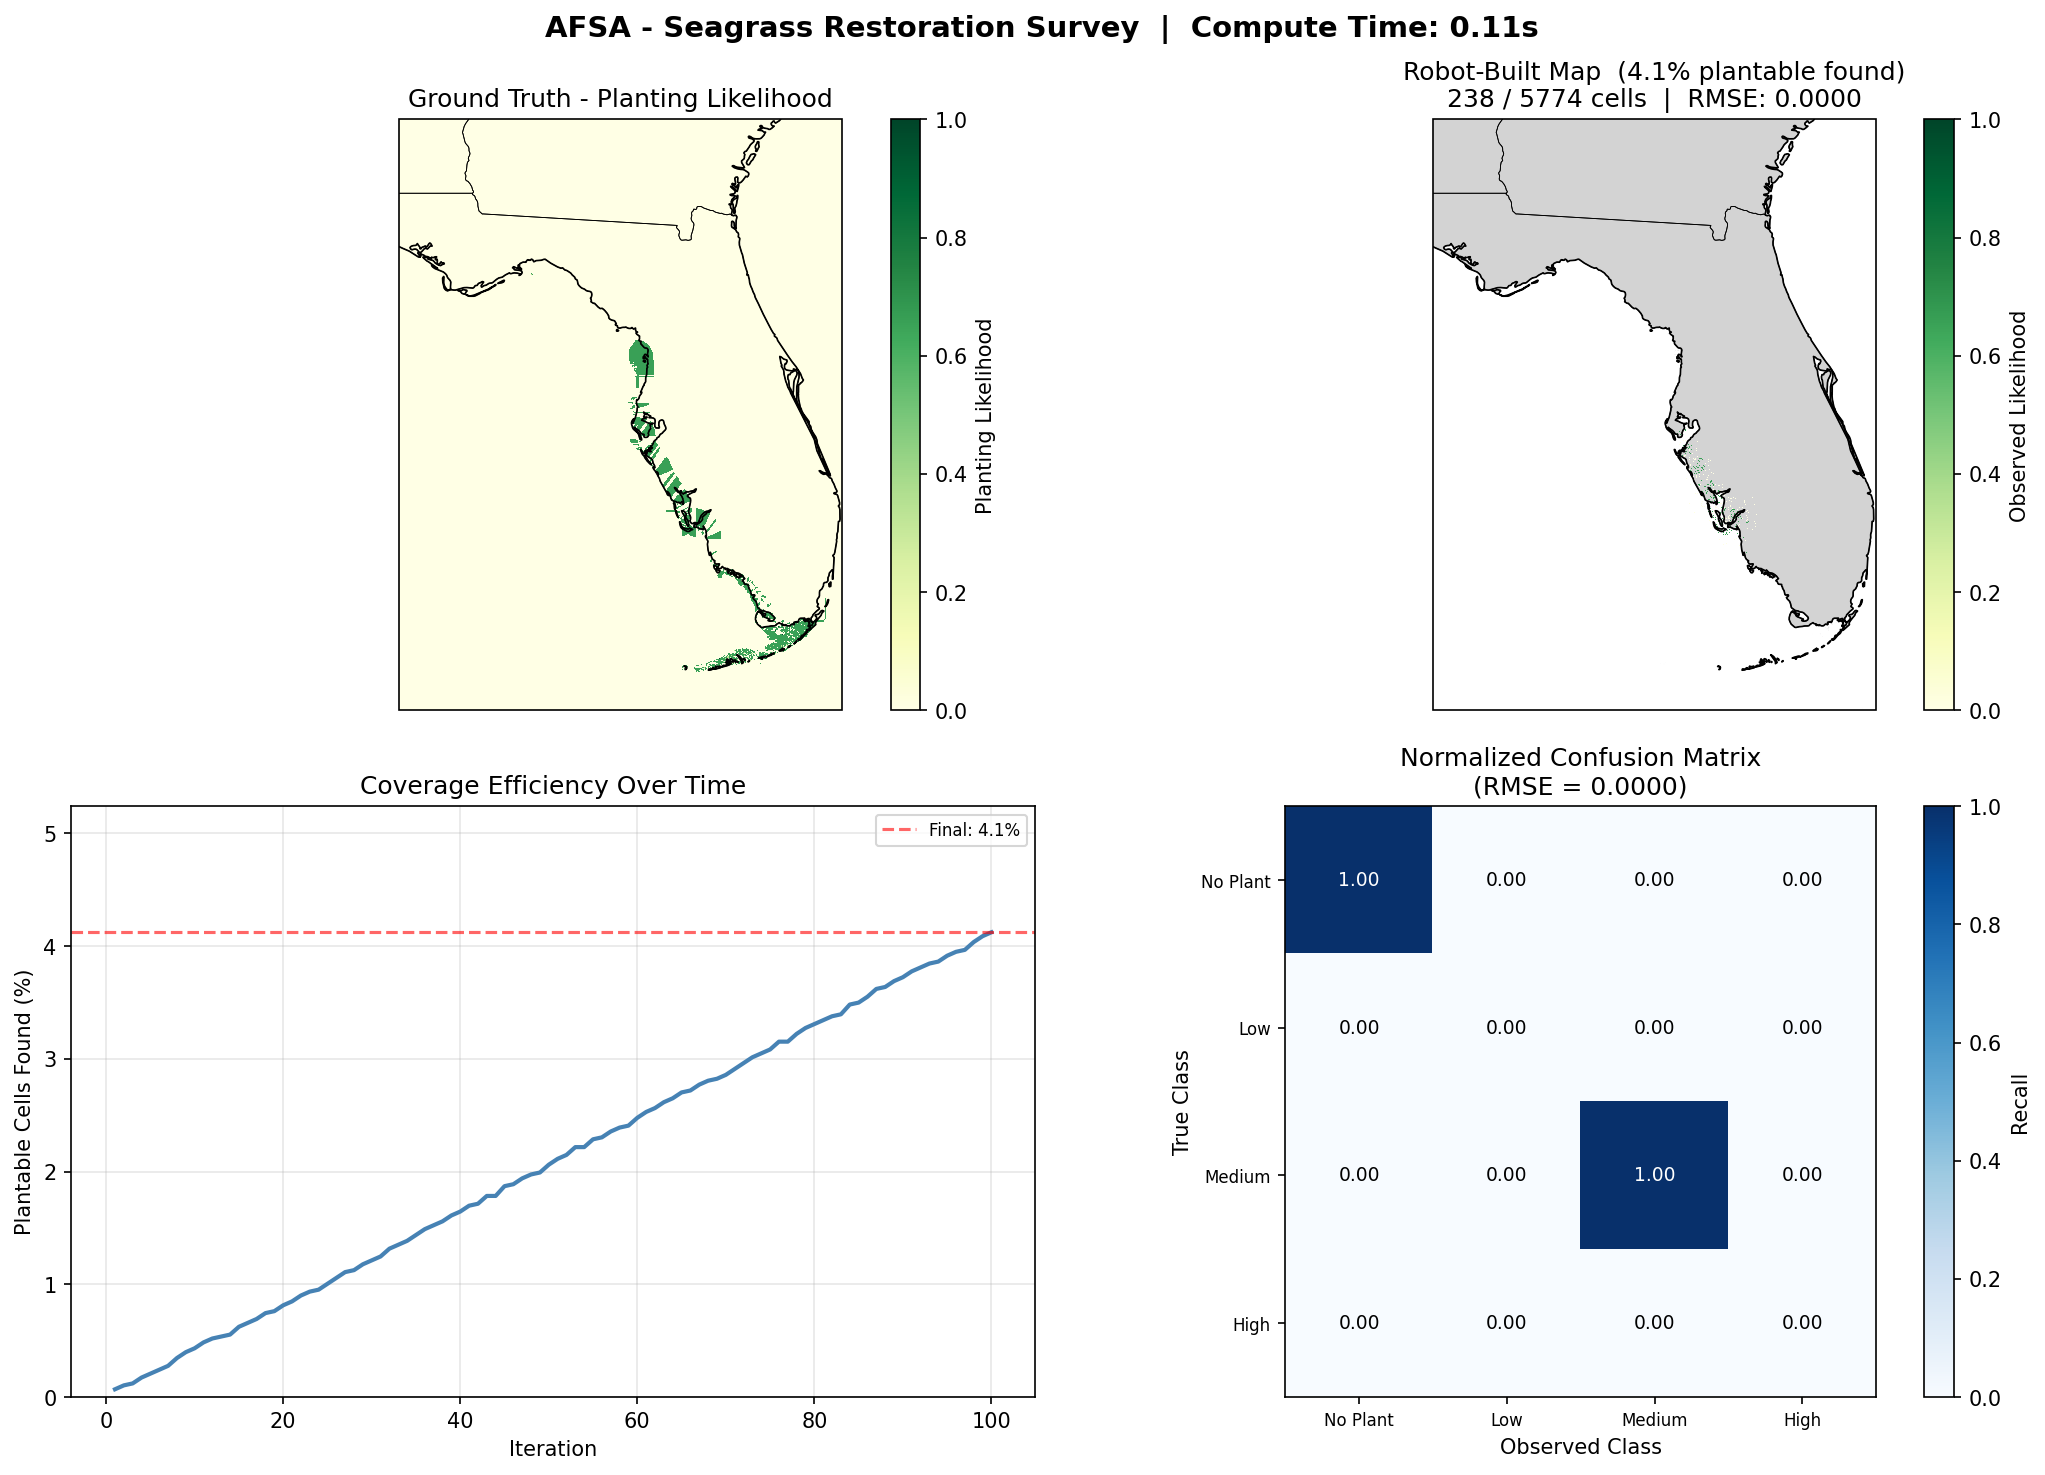
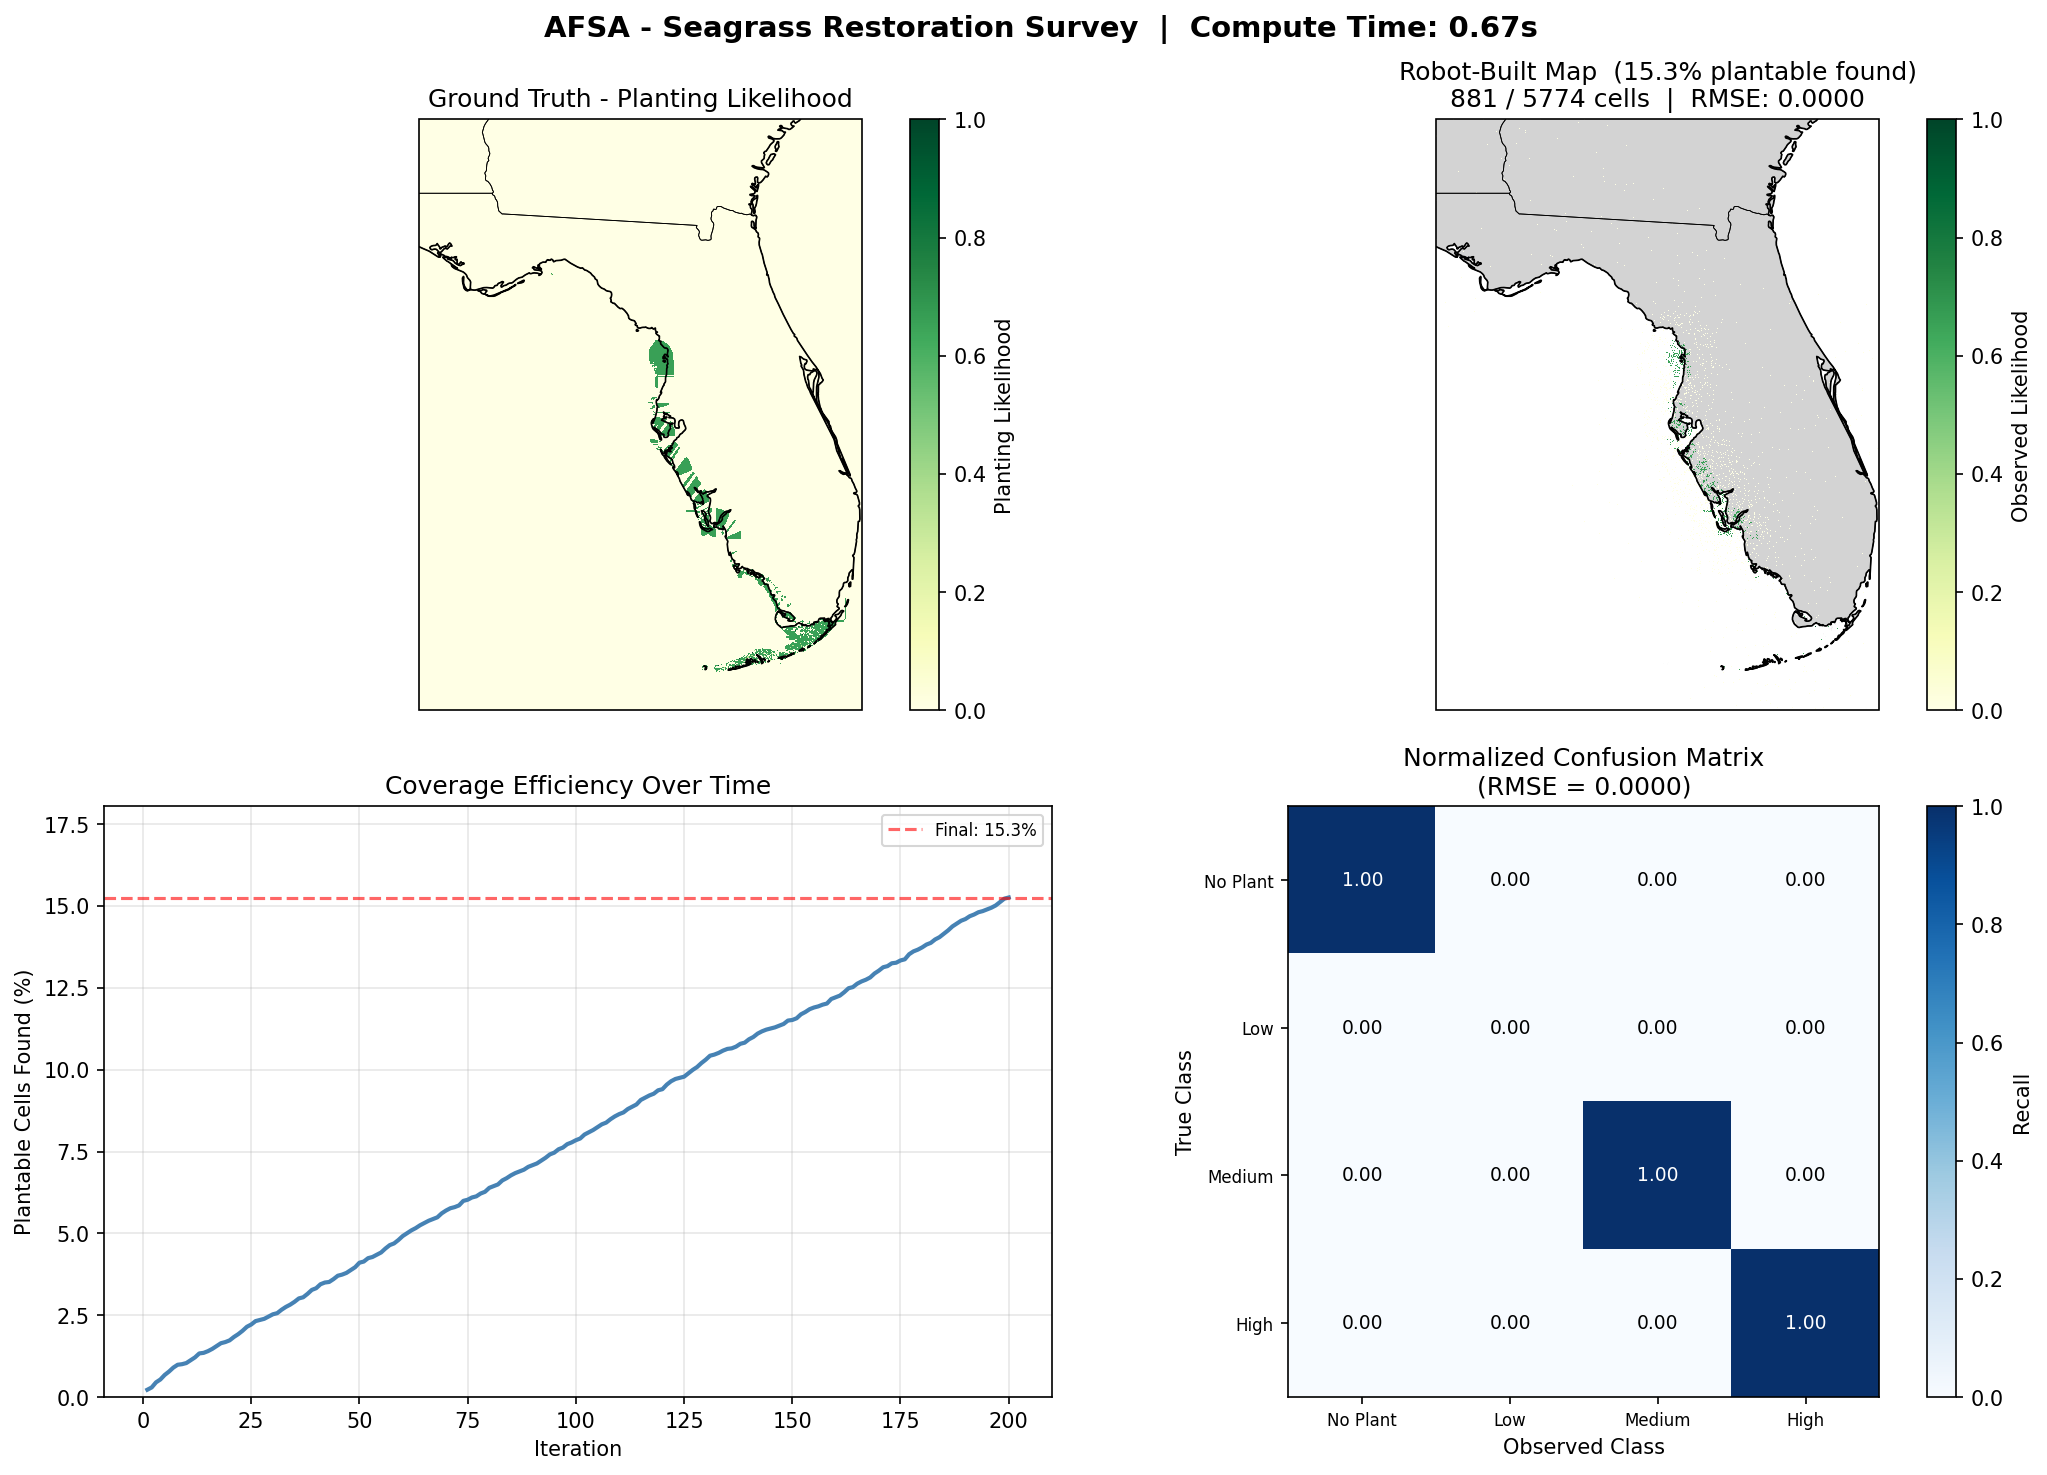
tune AFSA/WOA parameters for fair 20,000 evaluation budget comparison

diff --git a/woa/Trial2.py b/woa/Trial2.py
@@ -20,6 +20,17 @@ LatGrid    = np.load(os.path.join(root, 'lat_grid.npy'))
 percover   = np.load(os.path.join(root, 'percover.npy'))
 depth_grid = np.load(os.path.join(root, 'depth_grid.npy'))
 
+# Debug - check viable sites
+print(f"Total grid cells: {percover.size}")
+print(f"Non-zero percover cells: {np.sum(percover > 0)}")
+print(f"Cells with pc >= 0.5: {np.sum(percover >= 0.5)}")
+print(f"Cells with pc >= 0.7: {np.sum(percover >= 0.7)}")
+viable = np.where(percover >= 0.5)
+if len(viable[0]) > 0:
+    print(f"Viable lat range: {LatGrid[viable].min():.2f} to {LatGrid[viable].max():.2f}")
+    print(f"Viable lon range: {LonGrid[viable].min():.2f} to {LonGrid[viable].max():.2f}")
+
+
 coverage_grid = np.zeros(percover.shape, dtype=int)
 coverage_grid[percover == 0.0]  = COVERAGE_CONTINUOUS
 coverage_grid[percover == 0.25] = COVERAGE_PRESENT
@@ -35,21 +46,34 @@ def planting(X, Y, LonGrid, LatGrid, seagrass_coverage, depth):
     x = np.argmin(np.abs(LonGrid[0,:] - X))
     sc = seagrass_coverage[y, x]
     d  = depth[y, x]
+    pc = percover[y, x]
+    # print(f"  pc={pc:.4f}, d={d:.2f}")
     good_depth = (d > 1) and (d < 3)
-    if good_depth and (sc == "51 - 100%"):    return 0.25
-    if good_depth and (sc == "90 - 100%"):    return 0.5
-    if good_depth and (sc == "1 - 89%"):      return 0.55
-    if good_depth and (sc == "10 - 50%"):     return 0.7
-    if good_depth and (sc == "Continuous"):   return 0
-    if good_depth and (sc == "Discontinuous"): return 0.5
-    if good_depth and (sc == "<50%"):         return 0.75
-    if good_depth and (sc == "Unknown"):      return 0.5
-    if good_depth and (sc == ">50%"):         return 0.25
-    if good_depth and (sc == "Continuous Seagrass"): return 0
-    if good_depth and (sc == "Patchy (Discontinuous) Seagrass"): return 0.5
-    if d > 3:  return 0
-    if d <= 1: return 0
-    else:      return 0.5
+    if not good_depth:
+        return 0.0
+    
+    # percover values match Mapping_of_Viable_Sites.py scoring
+    if pc == 0.0:   return 0.0   # Continuous seagrass - don't plant
+    if pc == 0.25:  return 0.25  # 51-100% coverage
+    if pc == 0.5:   return 0.5   # Patchy/discontinuous
+    if pc == 0.55:  return 0.55  # 1-89% coverage
+    if pc >= 0.7:   return pc    # bare/unknown - best planting sites
+    return 0.0
+    # if good_depth and (sc == "51 - 100%"):    return 0.25
+    # if good_depth and (sc == "90 - 100%"):    return 0.5
+    # if good_depth and (sc == "1 - 89%"):      return 0.55
+    # if good_depth and (sc == "10 - 50%"):     return 0.7
+    # if good_depth and (sc == "Continuous"):   return 0
+    # if good_depth and (sc == "Discontinuous"): return 0.5
+    # if good_depth and (sc == "<50%"):         return 0.75
+    # if good_depth and (sc == "Unknown"):      return 0.5
+    # if good_depth and (sc == ">50%"):         return 0.25
+    # if good_depth and (sc == "Continuous Seagrass"): return 0
+    # if good_depth and (sc == "Patchy (Discontinuous) Seagrass"): return 0.5
+    # if d > 3:  return 0
+    # if d <= 1: return 0
+    # else:      return 0.5
+
 
 # ── Convert WOA results to shared results dict ────────────────────────────
 def build_results(env, all_solutions, LonGrid, LatGrid, elapsed):
@@ -99,11 +123,11 @@ def build_results(env, all_solutions, LonGrid, LatGrid, elapsed):
 # ── Main ──────────────────────────────────────────────────────────────────
 def parse_cl_args():
     parser = argparse.ArgumentParser()
-    parser.add_argument("-nsols", type=int, default=100)
-    parser.add_argument("-ngens", type=int, default=30)
-    parser.add_argument("-a",     type=float, default=2.0)
+    parser.add_argument("-nsols", type=int, default=200)
+    parser.add_argument("-ngens", type=int, default=100)
+    parser.add_argument("-a",     type=float, default=3.0)
     parser.add_argument("-b",     type=float, default=0.5)
-    parser.add_argument("-max",   default=False, dest='max', action='store_true')
+    parser.add_argument("-max",   default=True, dest='max', action='store_true')
     return parser.parse_args()
 
 def main():
@@ -113,7 +137,8 @@ def main():
     b          = args.b
     a          = args.a
     a_step     = a / ngens
-    constraints = [[-86, -80], [24, 32]]
+    # constraints = [[-86, -80], [24, 32]]
+    constraints = [[-84.21, -80.23], [24.52, 29.92]]
 
     print("Initializing WOA...")
     start_time = time.time()
@@ -129,6 +154,7 @@ def main():
     elapsed = time.time() - start_time
 
     # Build all_solutions same as Trial2.py
+    all_positions = []
     all_solutions = []
     for gen_positions in opt_alg.agent_paths:
         generation_data = []
@@ -136,7 +162,18 @@ def main():
             x, y = agent_pos
             fitness = planting(x, y, LonGrid, LatGrid, percover, depth_grid)
             generation_data.append((fitness, (x, y)))
+            # Add to all_positions for debug
+            row = int(np.argmin(np.abs(LatGrid[:,0] - y)))
+            col = int(np.argmin(np.abs(LonGrid[0,:] - x)))
+            all_positions.append((row, col))
         all_solutions.append(generation_data)
+
+    unique_positions = set(all_positions)
+    print(f"Total positions visited: {len(all_positions)}")
+    print(f"Unique grid cells visited: {len(unique_positions)}")
+    print(f"agent_paths length: {len(opt_alg.agent_paths)}")
+    print(f"first gen length: {len(opt_alg.agent_paths[0]) if opt_alg.agent_paths else 'empty'}")
+    print(f"first agent pos: {opt_alg.agent_paths[0][0] if opt_alg.agent_paths else 'empty'}")
 
     results = build_results(env, all_solutions, LonGrid, LatGrid, elapsed)
     print_metrics(env, results)

diff --git a/afsa/afsa.py b/afsa/afsa.py
@@ -29,7 +29,7 @@ class Fish:
 
 
 class AFSA:
-    def __init__(self, env, n_fish=5, visual=20.0, step=10.0,
+    def __init__(self, env, n_fish=10, visual=20.0, step=10.0,
                  try_number=10, crowd_factor=0.5, max_iter=100,
                  start_row=None, start_col=None, rng_seed=None):
         self.env          = env
@@ -183,9 +183,10 @@ if __name__ == "__main__":
     start_row = float(np.mean(viable[0])) if len(viable[0]) > 0 else env.rows / 2
     start_col = float(np.mean(viable[1])) if len(viable[0]) > 0 else env.cols / 2
 
-    afsa = AFSA(env, n_fish=5, visual=25.0, step=12.0,
-                try_number=10, crowd_factor=0.5, max_iter=100,
-                start_row=start_row, start_col=start_col, rng_seed=0)
+    # change parameters here to see convergence...
+    afsa = AFSA(env, n_fish=20, visual=75.0, step=40.0,
+            try_number=4, crowd_factor=0.3, max_iter=200,
+            start_row=start_row, start_col=start_col, rng_seed=0)
 
     print("Running AFSA...")
     results = afsa.run()

diff --git a/woa/src/whale_optimization.py b/woa/src/whale_optimization.py
@@ -85,6 +85,8 @@ class WhaleOptimization():
             f = self._opt_func(x, y, self._LonGrid, self._LatGrid, self._seagrass_coverage, self._depth)
             fitness.append(f)
         fitness = np.array(fitness)
+        print(f"  fitness min: {fitness.min():.3f}, max: {fitness.max():.3f}, mean: {fitness.mean():.3f}")
+
         
         sol_fitness = [(f, s) for f, s in zip(fitness, self._sols)]
    
